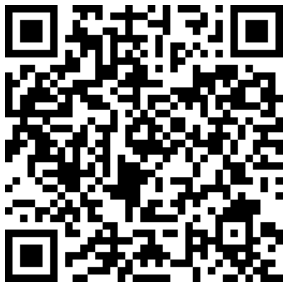
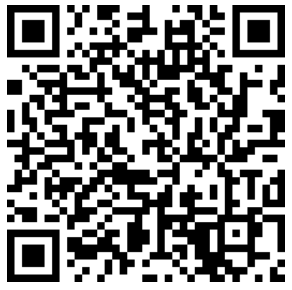
Updated QR

diff --git a/research_articles/monetary_premiums/monetary_premiums.md b/research_articles/monetary_premiums/monetary_premiums.md
@@ -117,11 +117,11 @@ Similarly, I remain hesitant regarding **Dash** as a store of value candidate gi
 **Decred’s** observable high performance suggests that DCR may be developing a convincing monetary premium and is something that I believe is largely undervalued by the market today. However, given the fundamentals behind Decred are extremely close to those of **Bitcoin**, although with notable areas of differentiation, it is quite likely that DCR will attract substantial interest if this monetary performance continues, liquidity grows and the market catches on. 
 
 ## Signature
-> ![Dskryq1zhgXBBx5Qw8fnV588iSYeY7d6JY3](images/dcr_qr.png)
+> ![Dsmx4zrTuS6UJxGHNutc5pwH73VHx7JN5XE](images/dcr_qr.png)
 
-> [Dskryq1zhgXBBx5Qw8fnV588iSYeY7d6JY3](https://explorer.dcrdata.org/address/Dskryq1zhgXBBx5Qw8fnV588iSYeY7d6JY3)
+> [Dsmx4zrTuS6UJxGHNutc5pwH73VHx7JN5XE](https://explorer.dcrdata.org/address/Dsmx4zrTuS6UJxGHNutc5pwH73VHx7JN5XE)
 
-> Signed Message (Article Title): HxufxXSfb2UvZSAV+sTURqntQjd0B+0yb/9quc8W4m62QMBFyyK6ndqwvEFc6IF1KuKjB4XEoudQ7ZAhTUnNVyg=
+> Signed Message (Article Title): H2GJUDTpW2AHDwjmyH5WJRISN7+SmCe82D0f/lr5pw12FovYlllq4au5LkKqaTpvzj2r/YENGMguYCNBPDYr/wo=
 
 
 ## References

diff --git a/research_articles/bitcoin_rvt_Ratio/rvt_ratio.md b/research_articles/bitcoin_rvt_Ratio/rvt_ratio.md
@@ -180,14 +180,9 @@ I am also developing a Masterclass for Bitcoin Fundamentals and On-chain analysi
 
 ## Signatures
 
-**Bitcoin**
->![3Eqob76zToeKf2m9JYg3Z9ZUWSVsySRewZ](images/btc_qr.png)
-
->[3Eqob76zToeKf2m9JYg3Z9ZUWSVsySRewZ](https://blockstream.info/address/3Eqob76zToeKf2m9JYg3Z9ZUWSVsySRewZ)
-
 **Decred**
->![Dskryq1zhgXBBx5Qw8fnV588iSYeY7d6JY3](images/dcr_qr.png)
+>![Dsmx4zrTuS6UJxGHNutc5pwH73VHx7JN5XE](images/dcr_qr.png)
 
->[Dskryq1zhgXBBx5Qw8fnV588iSYeY7d6JY3](https://explorer.dcrdata.org/address/Dskryq1zhgXBBx5Qw8fnV588iSYeY7d6JY3)
+>[Dsmx4zrTuS6UJxGHNutc5pwH73VHx7JN5XE](https://explorer.dcrdata.org/address/Dsmx4zrTuS6UJxGHNutc5pwH73VHx7JN5XE)
 
->Signed Message (Article Title): H9rQB6Xzh9rIpw7F4KyvZMxHaAc4EekSZaHl3XtBPwv5PkI5v0fAv85w11ez2SYHpXMK3h8oh3N4nuhJ2bE6jRM=
+>Signed Message (Article Title): H3zirdA7QV5MfLCksJVT5uCS1ROmu9Gj85DgKkX15JUWDg+aJf28cE/IUcCJ6zNuvBKb/J+4LrdWU3GFJ+Y5pvE=
